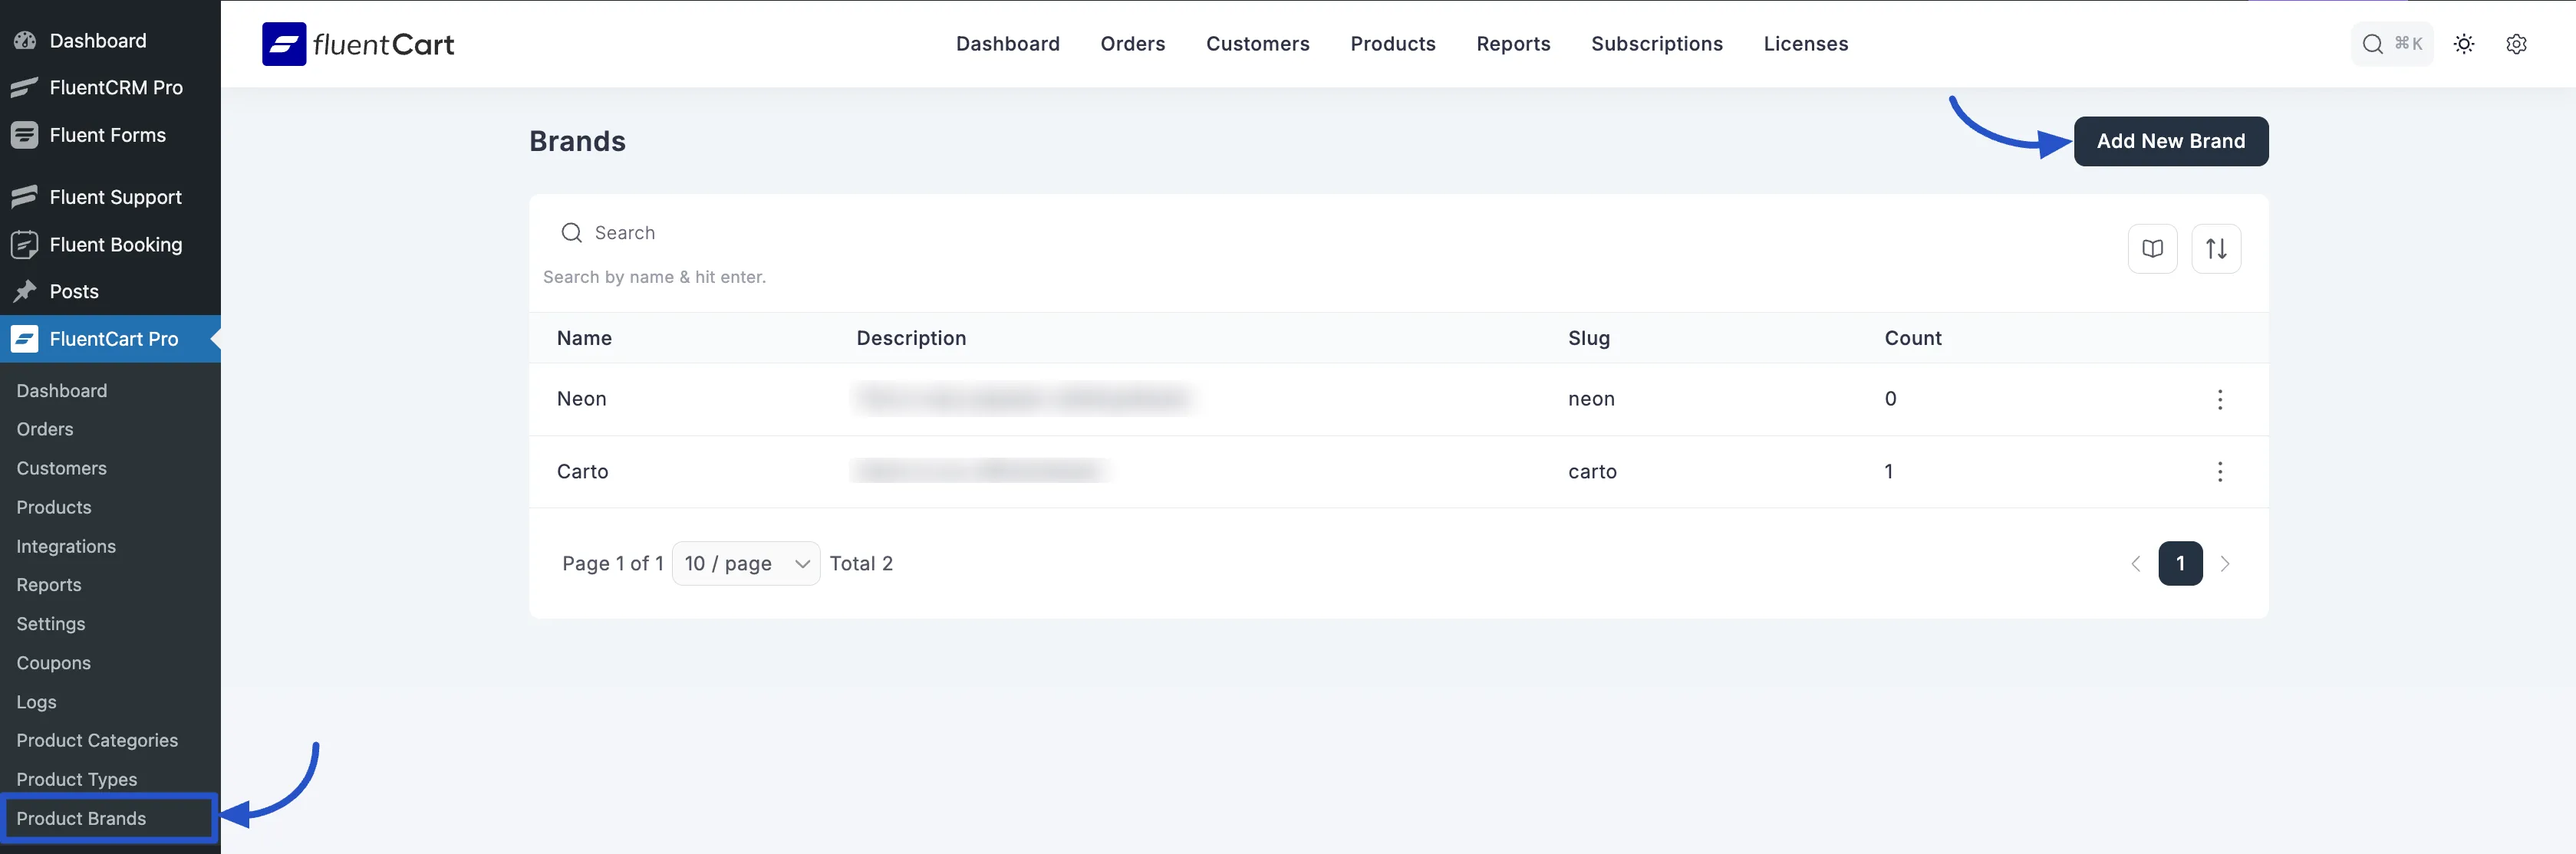
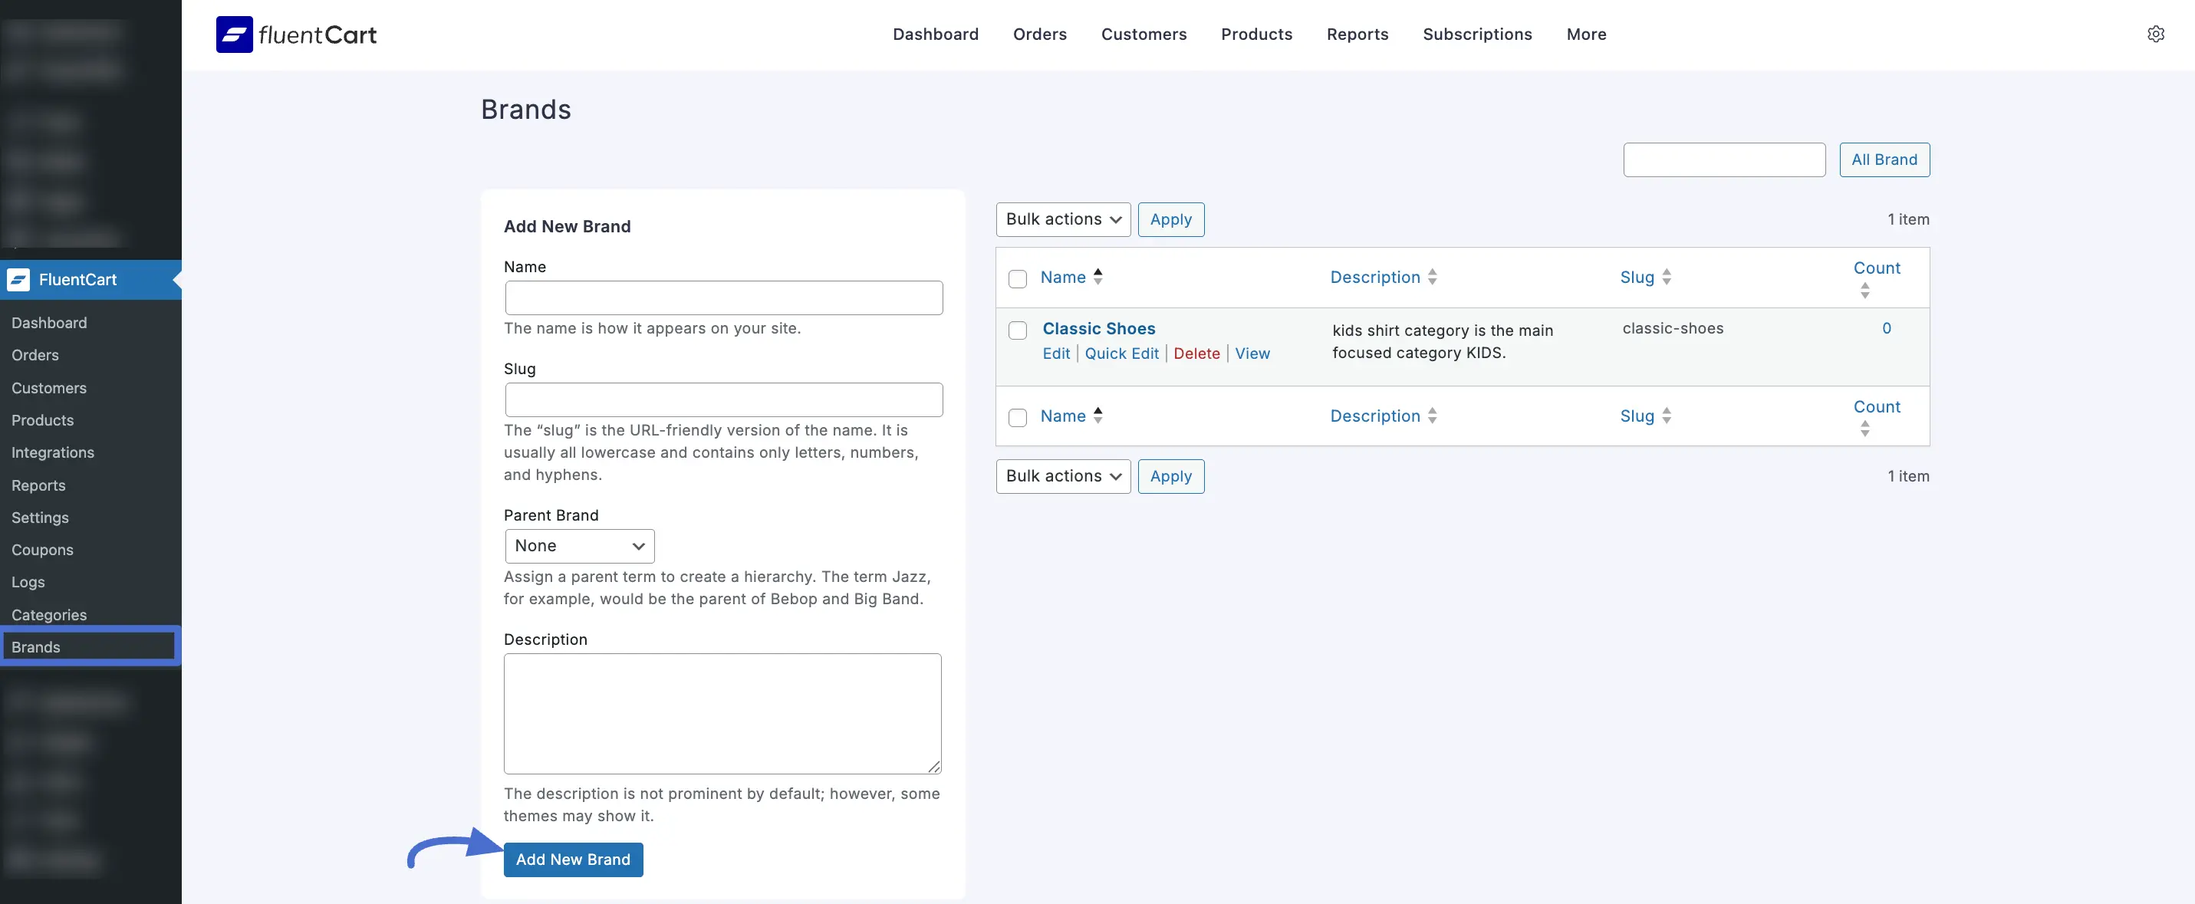
update creating and managing brand doc
update creating and managing brand doc description and image change

diff --git a/guide/product-types-creation/creating-managing-product-brand.md b/guide/product-types-creation/creating-managing-product-brand.md
@@ -8,50 +8,42 @@ This guide will show you how to create, manage, and assign brands to your produc
 
 ## Creating a New Brand
 
-To get started, you first need to create your brands. This process is straightforward and allows you to build out your brand library before assigning them to products.
+To get started, you first need to create your brands. This process is straightforward and allows you to build out your brand library before assigning it to products.
 
-1.  From your WordPress dashboard, go to **FluentCart Pro → Product Brands**.
-
-2.  This will take you to the main Brands screen, where you will find a list of all your existing brands. To add a new one, click the **Add New Brand** button at the top right.
+1. From your WordPress dashboard, go to **FluentCart Pro → Brands**.
+2. This will take you to the main **Brands** screen. On the left side, you will see the "**Add New Brand**" form.
 
 ![Product Brand](/images/product-types-creation/creating-managing-brand/product-brand-1.webp)
 
-3.  An "Add New Brand" pop-up window will appear. Fill in the details for your brand:
+Fill in the details for your brand:
 
-    * **Name:** Enter the brand's name exactly as you want it to appear to your customers. This is the primary identifier for the brand.
+ * **Name:** Enter the brand's name exactly as you want it to appear to your customers. This is the primary identifier for the brand.
+ * **Slug:** This is the URL-friendly version of the name, used in the web address for the brand's archive page. It should be all lowercase and contain only letters, numbers, and hyphens. FluentCart will automatically generate this from the name if you leave it blank.
+ * **Parent Brand:** This feature lets you create and organize brand levels. For example, if you sell a specific product line from a larger company, you could make "Air Jordan" a child of the "Nike" parent brand. For a top-level brand, simply leave this as "None."
+ * **Description:** Add a short description for the brand. Depending on your website's theme, this description may be displayed on the brand's archive page, providing customers with more context.
 
-    * **Slug:** This is the URL-friendly version of the name, used in the web address for the brand's archive page. It should be all lowercase and contain only letters, numbers, and hyphens. FluentCart will often generate this automatically from the name, but you can customize it.
-
-    * **Parent Brand:** This powerful feature allows you to create brand hierarchies. For example, if you sell a specific product line from a larger company, you could make "Air Jordan" a child of the "Nike" parent brand.
-
-    * **Description:** Add a short description for the brand. Depending on your website's theme, this description may be displayed on the brand's archive page, providing customers with more context and improving SEO.
-
-4.  Click the **Add New Brand** button to save the brand. It will now appear in your main brand list.
+Click the **Add New Brand** button to save the brand. It will now appear in the list on the right.
 
 ### Managing Existing Brands
 
-The main **Product Brands** screen provides a central dashboard to manage all the brands you have created.
+The table on the right side of the **Brands** screen is your command center for managing all the brands you've created.
 
-* The table displays each brand's **Name**, **Description**, **Slug**, and the **Count** of products assigned to it. This count is a useful way to see at a glance how popular each brand is in your store.
+This list gives you a quick overview of each brand, showing its **Name**, **Description**, **Slug**, and the **Count** of products assigned to it. The "Count" is a handy way to see which brands are most popular in your store.
 
-* Use the **Search** bar to quickly find a specific brand, which is especially helpful for stores with a large and growing catalog of brands.
+To manage your brands:
 
-* Click the **column icon** on the right to customize the table view. You can show or hide columns to declutter the interface and focus only on the information you need.
-
-* Click the **sort icon** to organize the brand list by different criteria. For example, you can sort alphabetically by Name or numerically by Count to easily identify your most popular or unused brands.
+**Sort the List:** You can organize the list by clicking the small arrows next to a column title, such as "Name" or "Count." This makes it easy to find brands alphabetically or see which ones have the most products.
+**Edit, Delete, and More:** When you move your mouse over a brand in the list, a set of options will appear right below its name:
+  * **Edit:** This takes you to a separate screen to change all the brand's details.
+  * **Quick Edit:** Allows you to make fast changes to the name and slug without leaving the page.
+  * **Delete:** Permanently removes the brand.
+  * **View:** Lets you see how the brand's page looks on your live website.
 
 #### Assigning Brands to a Product
 
 Once your brands are created, you can assign them to your products.
 
-1.  Navigate to the product you want to assign a brand to by going to **FluentCart Pro → Products** and clicking on a product to open its editor.
-
-2.  On the product edit page, look for the **Product Taxonomies** section on the right-hand side of the screen.
-
-3.  In the **Brands** box, you can assign one or more brands to the product:
-
-    * Check the box next to any existing brand in the list.
-
-    * Click the **+ Add Brand** link to create a new brand on the fly and assign it simultaneously, without needing to leave the product editor.
-
-4.  After assigning the brand(s), click the **Update** or **Publish** button at the top right of the page to save your changes. The brand will now be associated with that product.
+1. Navigate to the product you want to assign a brand to by going to **FluentCart Pro → Products** and clicking on a product to open its editor.
+2. On the product edit page, look for the Brands section on the right-hand side of the screen.
+3. In the **Brands** box, you can assign one or more brands to the product by checking the box next to any existing brand in the list.
+4. After assigning the brand(s), click the **Update** or **Publish** button at the top right of the page to save your changes. The brand will now be associated with that product.
